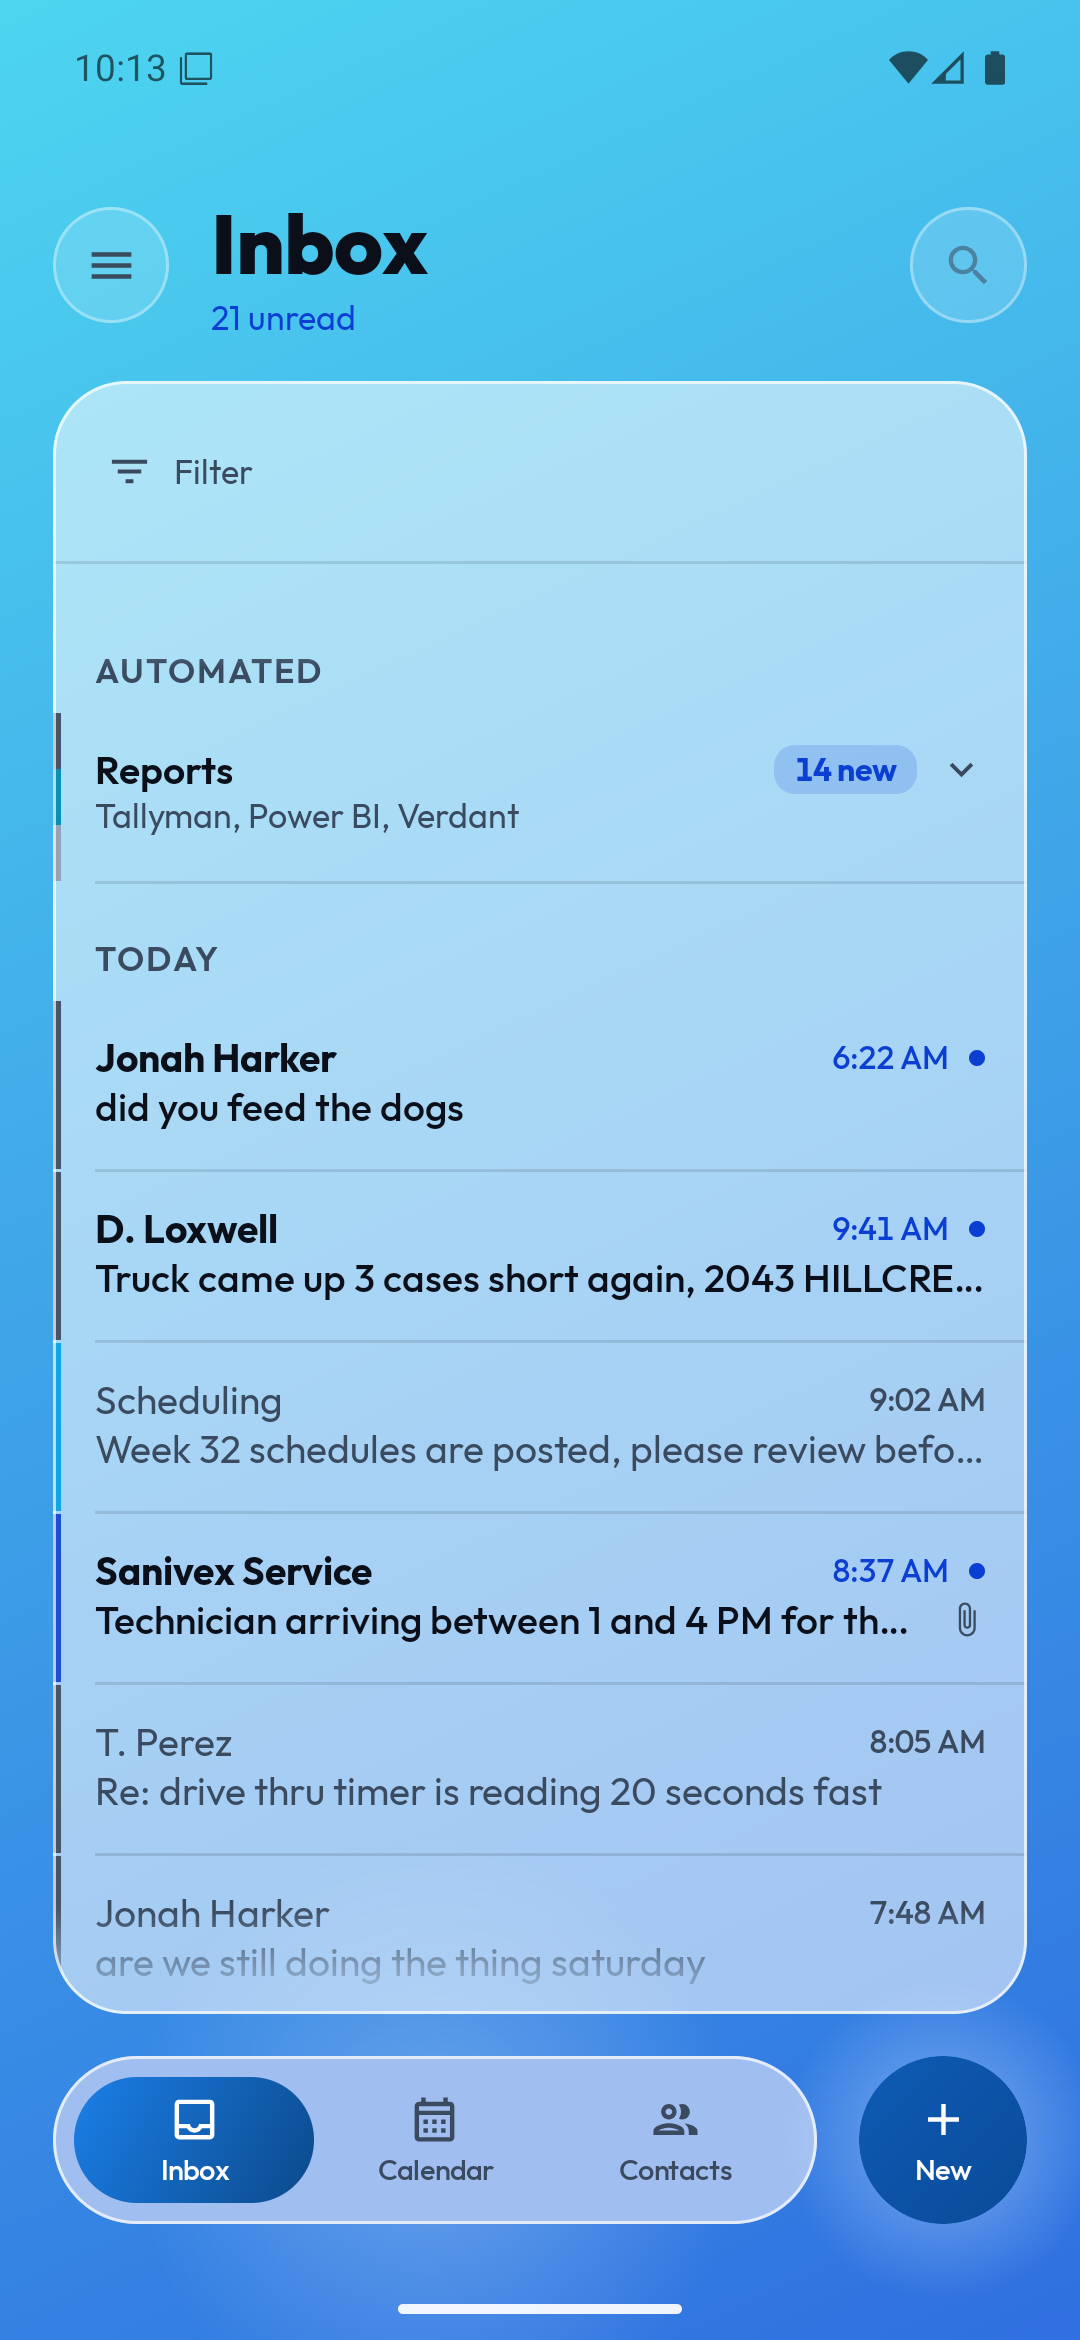
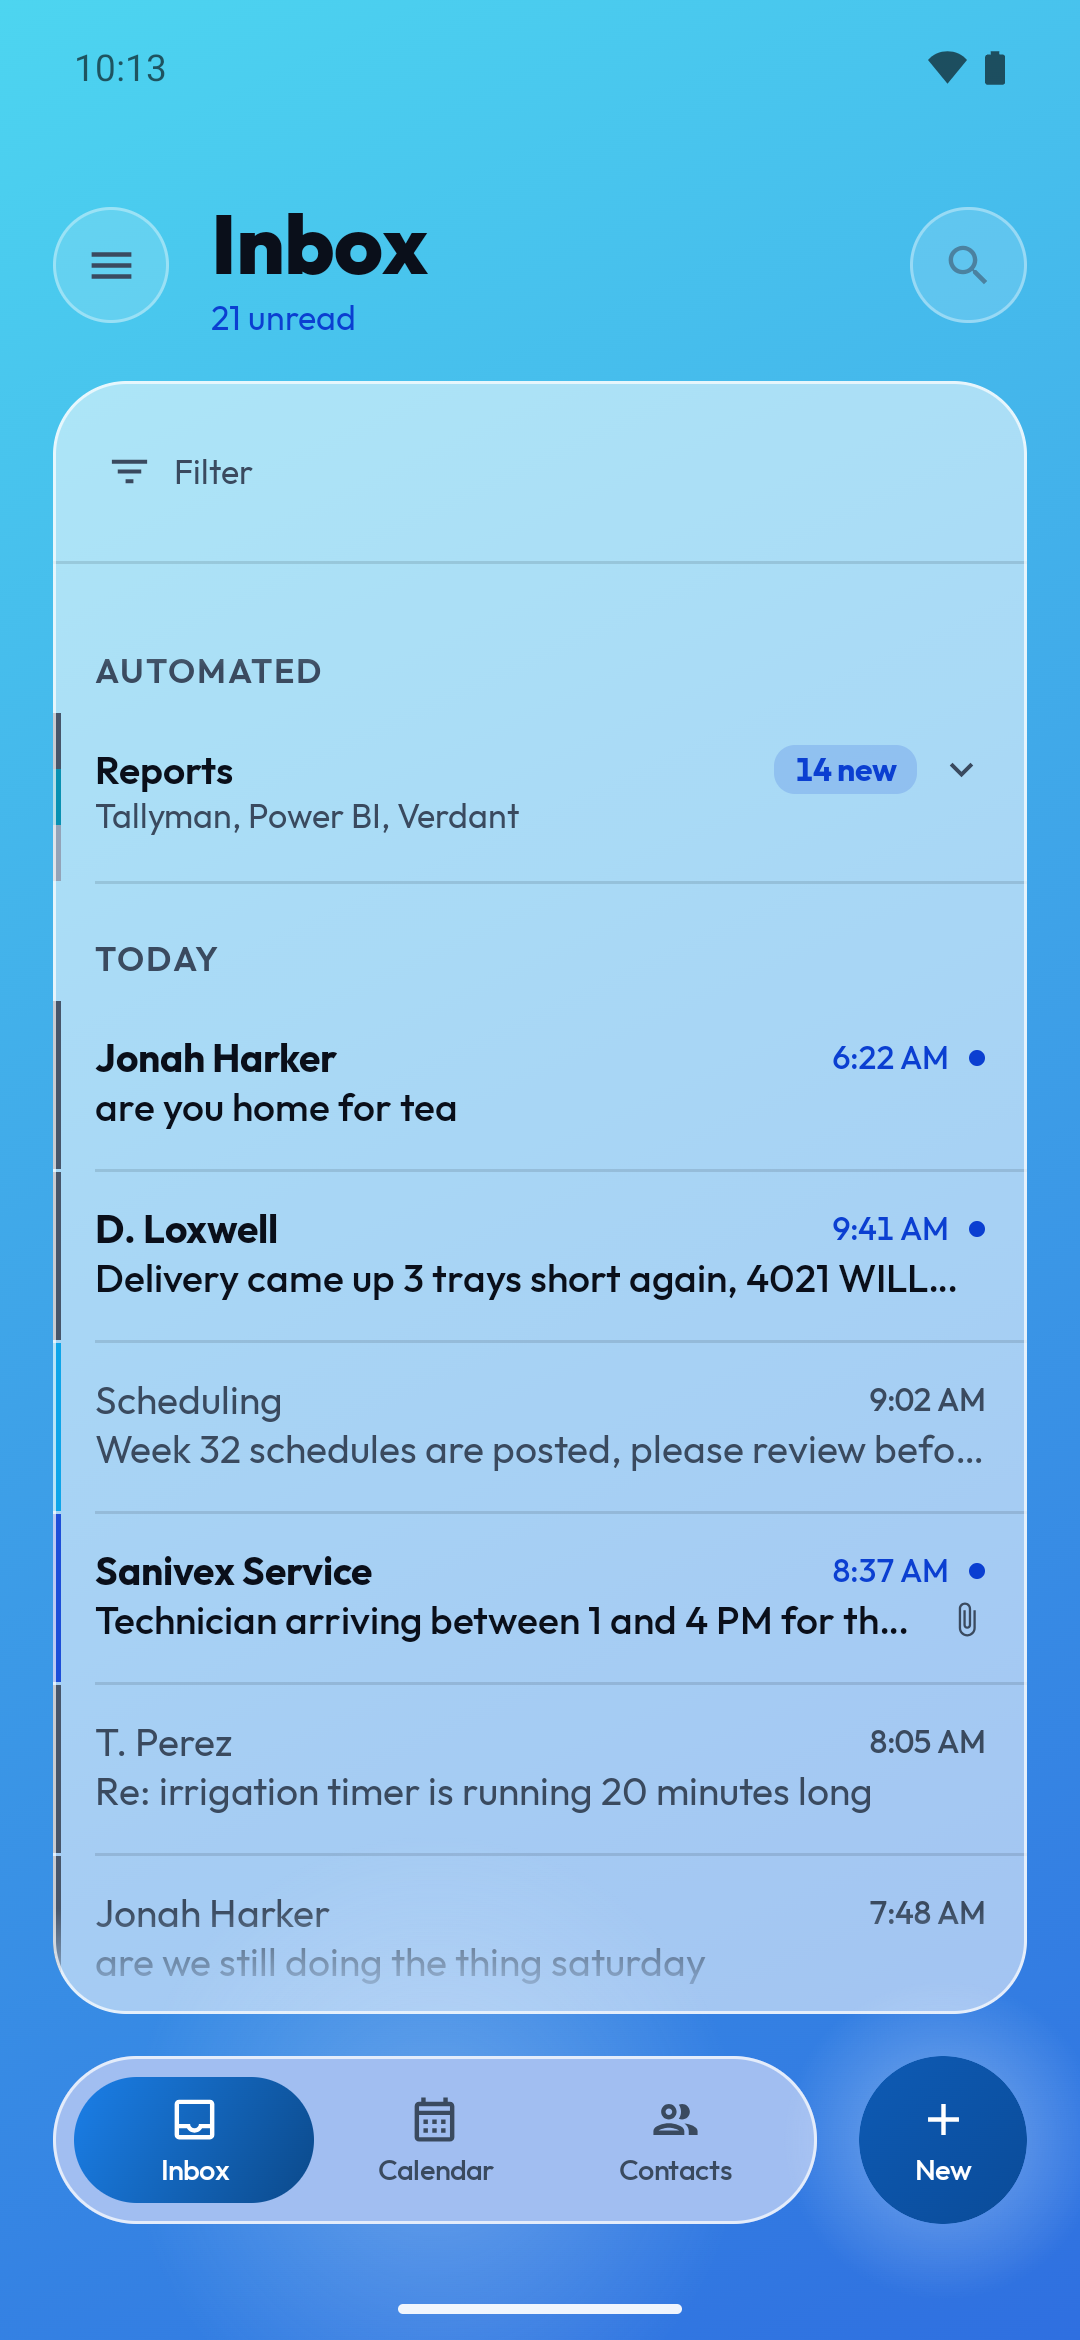
Re-shoot the store screenshots on the re-themed corpus
The four listing screenshots were taken on 2026-08-18 and still showed the
old sample data, so the thing the last commit removed from the source was
still on display as PNGs. Retaken on the emulator against the re-themed
corpus, same 1080x2340 frames and the same four screens.

Also finishes the re-theme where it had been missed: five contact roles
were still food-service (kitchen managers, a produce rep, a beverage rep,
a food distributor). Contacts is one of the four screenshots, so this was
visible rather than merely inconsistent.

Driven through the gallery's adb extras rather than by tapping at guessed
coordinates, which is what those extras exist for:

  am start -n app.gridlink/app.gridlink.gallery.GridlinkGalleryActivity \
    --es open fill-sanivex

SystemUI demo mode pins the clock and the status bar so the four frames
match each other. Mobile is hidden rather than set to a datatype: demo
mode ignores an empty datatype and leaves a stale "3G" label behind.

diff --git a/app/src/main/kotlin/app/gridlink/ui/gridlink/GridlinkSampleContacts.kt b/app/src/main/kotlin/app/gridlink/ui/gridlink/GridlinkSampleContacts.kt
@@ -172,12 +172,12 @@ object GridlinkSampleContacts {
         GridlinkContact("maddox", "Thea", "Maddox", "Catering Coordinator", "t.maddox@gridlink.me"),
         GridlinkContact("marden", "", "Marden Halloway", "Workers comp broker", "claims@mardenmma.example"),
         GridlinkContact("halesworth", "", "Halesworth County", "Health inspections", "health@halesworthcounty.example"),
-        GridlinkContact("moore", "Andre", "Moore", "Kitchen Manager, 4058 Stonebridge", "a.moore@gridlink.me"),
+        GridlinkContact("moore", "Andre", "Moore", "Nursery Manager, 4058 Stonebridge", "a.moore@gridlink.me"),
         GridlinkContact("nakamura", "Grace", "Nakamura", "Regional Trainer", "g.nakamura@hrbenefits.example"),
         GridlinkContact("okafor", "Curtis", "Okafor", "Overnight Cleaning Lead", "c.okafor@sitecare.example"),
         GridlinkContact("harker", "Jonah", "Harker", "Personal", "jonah.harker@gridlink.me"),
         GridlinkContact("payroll", "", "Payroll", "Pay runs and corrections", "payroll@hrbenefits.example"),
-        GridlinkContact("perez", "Tomas", "Perez", "Kitchen Manager, 4073 Ashgrove", "t.perez@gridlink.me"),
+        GridlinkContact("perez", "Tomas", "Perez", "Nursery Manager, 4073 Ashgrove", "t.perez@gridlink.me"),
         GridlinkContact("powerbi", "", "Power BI Service", "Automated report delivery", "no-reply@microsoft.com"),
         // Deliberately role-less: the shape of a real synced book, where most cards carry no
         // TITLE or ORG (an email-only trusted-sender card carries nothing but its address).
@@ -203,15 +203,18 @@ object GridlinkSampleContacts {
         GridlinkContact("sandoval", "Leah", "Sandoval", "Assistant Manager, 4073 Ashgrove", "l.sandoval@gridlink.me"),
         GridlinkContact("scheduling", "", "Scheduling", "Shift swaps and coverage", "scheduling@hrbenefits.example"),
         GridlinkContact("verdant", "", "Verdant", "Pest control", "service@verdantfs.example"),
-        GridlinkContact("brightmar", "", "Brightmar Regional", "Food distribution", "orders@brightmar.example"),
+        GridlinkContact(
+            "brightmar", "", "Brightmar Regional", "Horticultural distribution",
+            "orders@brightmar.example",
+        ),
         GridlinkContact("training", "", "Training Team", "Certification tracking", "training@hrbenefits.example"),
         GridlinkContact("tran", "Victor", "Tran", "POS Support Tech", "v.tran@tallyman.example"),
         GridlinkContact("ueda", "Nadia", "Ueda", "Plant Health Auditor", "n.ueda@verdantfs.example"),
-        GridlinkContact("valdez", "Hector", "Valdez", "Produce Rep, Brightmar", "h.valdez@brightmar.example"),
+        GridlinkContact("valdez", "Hector", "Valdez", "Plants Rep, Brightmar", "h.valdez@brightmar.example"),
         GridlinkContact("whitfield", "Monica", "Whitfield", "Store Accountant", "m.whitfield@gridlink.me"),
         GridlinkContact("yancey", "Adele", "Yancey", "HR Generalist", "a.yancey@hrbenefits.example"),
         GridlinkContact("zielinski", "Petra", "Zielinski", "Insurance Adjuster, Marden Halloway", "p.zielinski@mardenmma.example"),
-        GridlinkContact("okonkwo", "Chidi", "Okonkwo", "Beverage Vendor Rep", "c.okonkwo@brightmar.example"),
+        GridlinkContact("okonkwo", "Chidi", "Okonkwo", "Sundries Vendor Rep", "c.okonkwo@brightmar.example"),
     ).sortedWith(compareBy({ it.filedUnder.lowercase() }, { it.given.lowercase() }))
 
     /** [all], grouped. Computed once: the list is a constant, so regrouping it per recomposition
